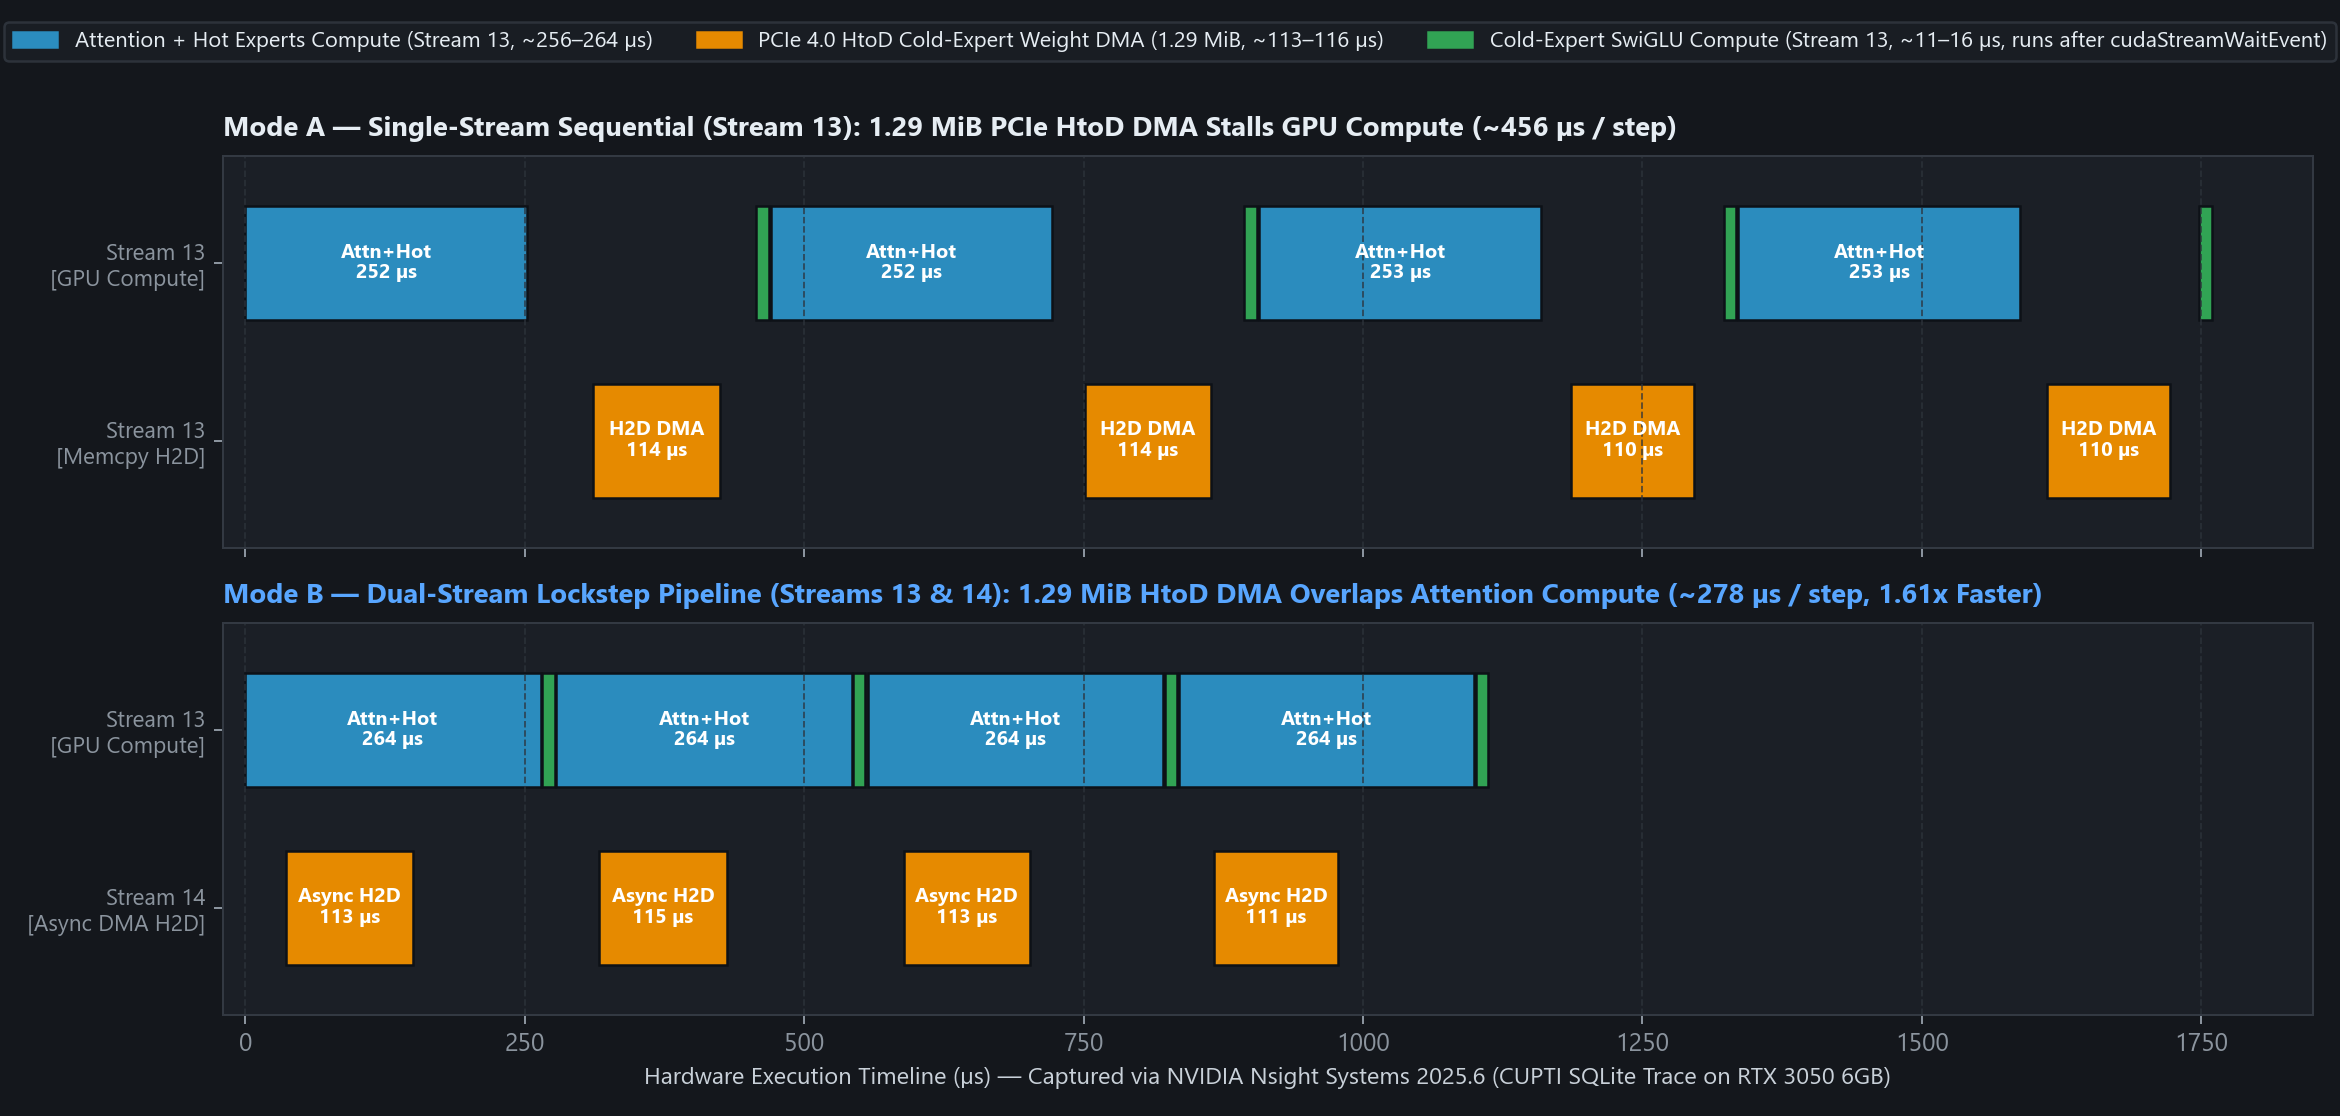
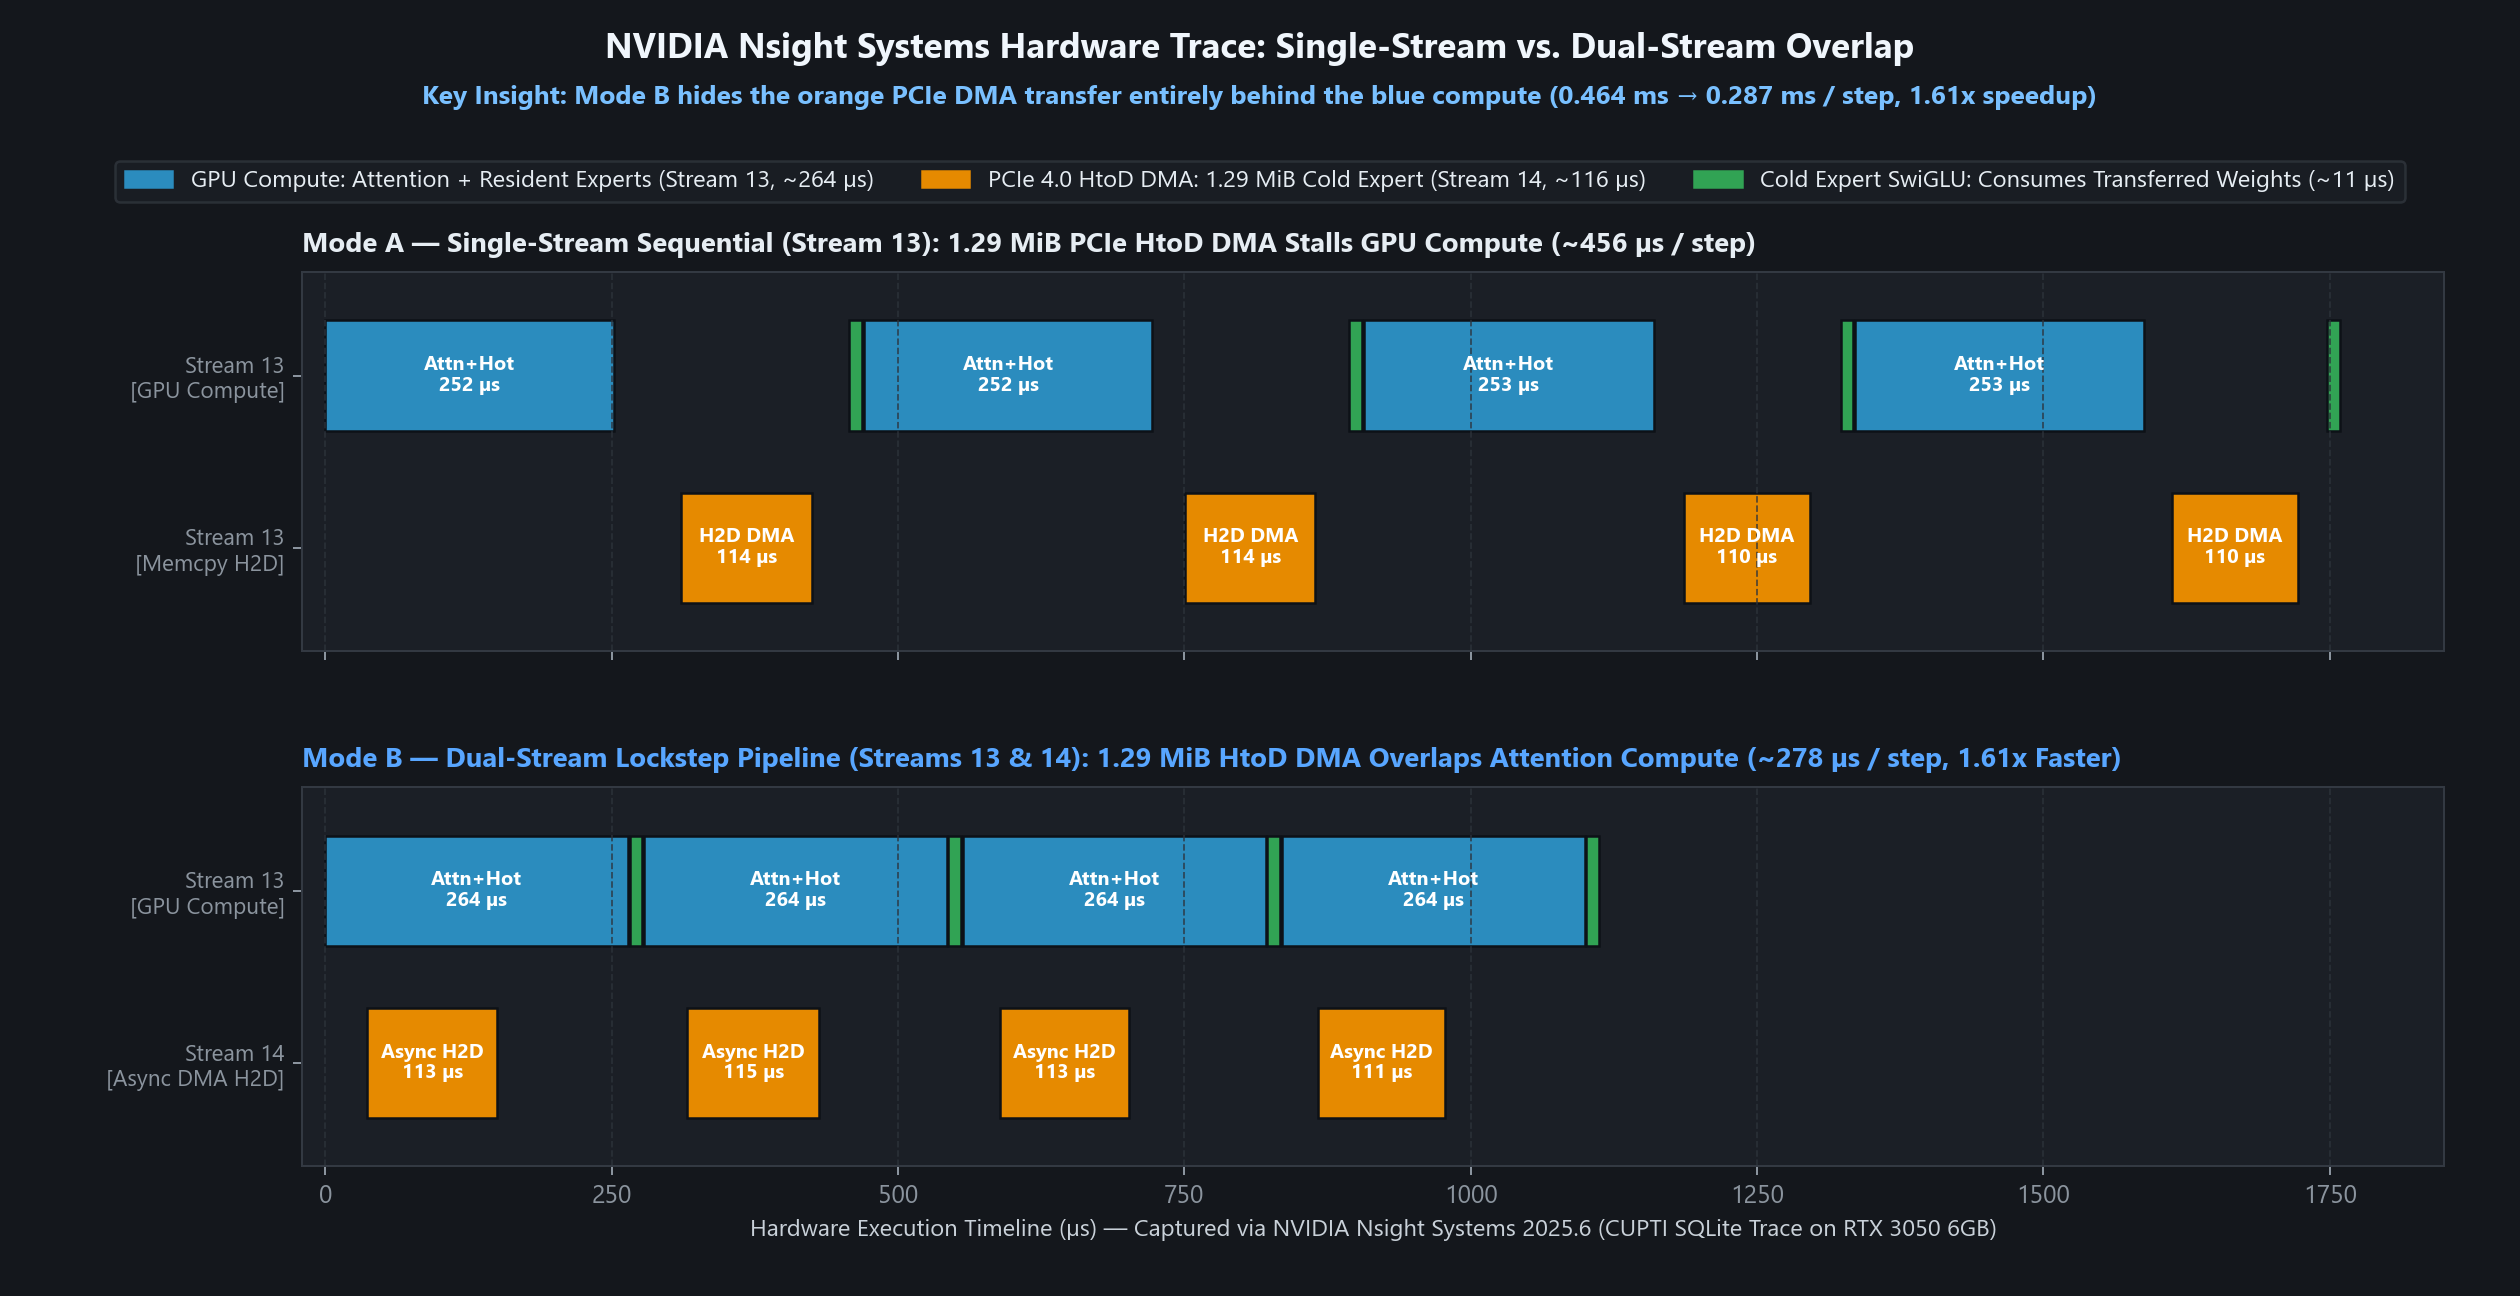
docs: add Related Work, clean Requirements, and refine visual charts

diff --git a/src/plot_nsys_timeline.py b/src/plot_nsys_timeline.py
@@ -96,7 +96,7 @@ def render_timeline(data):
     plt.rcParams["font.sans-serif"] = "Segoe UI"
     plt.rcParams["axes.edgecolor"] = "#333942"
 
-    fig, (ax1, ax2) = plt.subplots(2, 1, figsize=(13, 6.2), dpi=180, sharex=True)
+    fig, (ax1, ax2) = plt.subplots(2, 1, figsize=(14.0, 7.2), dpi=180, sharex=True)
     fig.patch.set_facecolor("#14171c")
 
     colors = {
@@ -104,6 +104,31 @@ def render_timeline(data):
         "dma":  "#e68a00",  # PCIe HtoD DMA Copy (1.29 MiB Cold Expert)
         "ffn":  "#31a354",  # Cold Expert SwiGLU Kernel
     }
+
+    # Title, Callout, and Legend at the top (well-spaced and readable)
+    fig.text(
+        0.5, 0.962,
+        "NVIDIA Nsight Systems Hardware Trace: Single-Stream vs. Dual-Stream Overlap",
+        ha="center", va="center", color="#f0f6fc", fontsize=14, fontweight="bold"
+    )
+    fig.text(
+        0.5, 0.925,
+        "Key Insight: Mode B hides the orange PCIe DMA transfer entirely behind the blue compute (0.464 ms → 0.287 ms / step, 1.61x speedup)",
+        ha="center", va="center", color="#79c0ff", fontsize=10.5, fontweight="bold"
+    )
+
+    legend_patches = [
+        mpatches.Patch(color=colors["attn"], label="GPU Compute: Attention + Resident Experts (Stream 13, ~264 µs)"),
+        mpatches.Patch(color=colors["dma"],  label="PCIe 4.0 HtoD DMA: 1.29 MiB Cold Expert (Stream 14, ~116 µs)"),
+        mpatches.Patch(color=colors["ffn"],  label="Cold Expert SwiGLU: Consumes Transferred Weights (~11 µs)"),
+    ]
+    fig.legend(
+        handles=legend_patches, loc="upper center", ncol=3,
+        frameon=True, facecolor="#1b1f26", edgecolor="#30363d",
+        labelcolor="#e6edf3", fontsize=9.5, bbox_to_anchor=(0.5, 0.885)
+    )
+
+    fig.subplots_adjust(top=0.79, bottom=0.10, left=0.12, right=0.97, hspace=0.36)
 
     # --- Panel 1: Mode A (Sequential on Stream 13) ---
     ax1.set_facecolor("#1b1f26")
@@ -161,18 +186,6 @@ def render_timeline(data):
     ax2.grid(axis="x", color="#2d333b", linestyle="--", linewidth=0.7, alpha=0.8)
     ax2.tick_params(colors="#8b949e")
 
-    legend_patches = [
-        mpatches.Patch(color=colors["attn"], label="Attention + Hot Experts Compute (Stream 13, ~256–264 µs)"),
-        mpatches.Patch(color=colors["dma"],  label="PCIe 4.0 HtoD Cold-Expert Weight DMA (1.29 MiB, ~113–116 µs)"),
-        mpatches.Patch(color=colors["ffn"],  label="Cold-Expert SwiGLU Compute (Stream 13, ~11–16 µs, runs after cudaStreamWaitEvent)"),
-    ]
-    fig.legend(
-        handles=legend_patches, loc="upper center", ncol=3,
-        frameon=True, facecolor="#1b1f26", edgecolor="#333942",
-        labelcolor="#e6edf3", fontsize=8.8, bbox_to_anchor=(0.5, 0.99)
-    )
-
-    plt.tight_layout(rect=[0, 0, 1, 0.92])
     plt.savefig(OUT_IMG_PATH, dpi=180, facecolor=fig.get_facecolor())
     print(f"Saved Nsight timeline chart to {OUT_IMG_PATH}")
 

diff --git a/src/plot_benchmarks.py b/src/plot_benchmarks.py
@@ -165,11 +165,7 @@ def main():
         gain = (h / std_vals[idx] - 1.0) * 100.0
         ax2.text(
             bar.get_x() + bar.get_width() / 2.0, h + 0.4,
-            f"{h:.1f}\n(+{gain:.0f}%)", ha="center", va="bottom", color="#79c0ff", fontsize=8.3, fontweight="bold"
-        )
-        ax2.text(
-            bar.get_x() + bar.get_width() / 2.0, h / 2.0,
-            f"{hit_rates[idx]:.1f}%\nhit", ha="center", va="center", color="#ffffff", fontsize=7.8, fontweight="bold"
+            f"{h:.1f}\n(+{gain:.0f}%)", ha="center", va="bottom", color="#79c0ff", fontsize=8.5, fontweight="bold"
         )
 
     ax2.set_xticks(x)

diff --git a/README.md b/README.md
@@ -23,7 +23,16 @@ Decode speed (median tok/s), 128K context reserved, ~900-token prompt, 200 gener
 
 **What beats what, and why the baselines matter:** stock `-fit on` leaves about 1 GB of VRAM unused, so it is a weak baseline. Tuning it by hand already gives +39%. The cache is only interesting because it beats the tuned baseline too (+14–17% with MTP on, +30% with MTP off).
 
-Long-generation check (3 prompts × 1000 tokens, default sampling): 15.8 → 23.6 tok/s on average, 267 s → 206 s total. Per-prompt gains ranged from +21% to +67% because sampling was random. Raw data is in [`benchmarks/`](benchmarks/).
+**Long generation (3 prompts × 1000 tokens, default sampling):**
+
+| Workload | Stock `llama.cpp` | BeyondVRAM (3300 MiB) | Decode Speedup | SLRU Hit Rate |
+|---|---:|---:|---:|---:|
+| Q1: Distributed AI | 14.1 tok/s | 23.6 tok/s | +67.4% | 87.8% |
+| Q2: AgentOS Kernel | 14.8 tok/s | 24.8 tok/s | +66.8% | 90.2% |
+| Q3: Compiler & PTX | 18.5 tok/s | 22.4 tok/s | +21.5% | 89.0% |
+| **Suite Mean** | **15.8 tok/s** | **23.6 tok/s** | **+49.3%** | **89.0%** |
+
+Total wall-clock time dropped from 267 s to 206 s (-61 s). Q3 showed lower relative gains because default sampling led to different speculative drafting trajectories. Raw telemetry is in [`benchmarks/`](benchmarks/).
 
 ---
 
@@ -68,8 +77,6 @@ These are small standalone CUDA/C++ tests of the hardware behaviour behind the c
 
 ![Nsight timeline](docs/assets/nsys_timeline.png)
 
-*Nsight Systems timeline: the compute kernel on one stream (top) runs while the 1.29 MiB host-to-device copy runs on a second stream (bottom). The copy is hidden behind compute, and a final small kernel uses the copied weights.*
-
 **2. Cold expert: CPU vs GPU** ([`src/zero_transfer_ffn.cpp`](src/zero_transfer_ffn.cpp)). One full 3-matrix expert at its real size, including the cost of moving activations and syncing:
 
 | Path | Time per expert |
@@ -82,7 +89,26 @@ A cache hit is fastest by far. For a miss, running on the CPU is a little faster
 
 ---
 
+## Related work
+
+MoE offloading and expert caching have been explored by [Mixtral-Offloading](https://arxiv.org/abs/2312.17238) (LRU caching with prefetching), [Fiddler](https://arxiv.org/abs/2402.07033) (computing cold experts on the CPU instead of moving weights), [MoE-Infinity](https://arxiv.org/abs/2401.14361), and [KTransformers](https://github.com/kvcache-ai/ktransformers). BeyondVRAM evaluates how these principles—specifically Segmented-LRU caching and CPU/GPU split execution—behave in upstream `llama.cpp` under consumer mobile constraints (6 GB VRAM, PCIe 4.0 x4, single-channel RAM).
+
+---
+
+## Requirements
+
+- **Operating System:** Windows 10/11 (PowerShell).
+- **Inference Engine:** Upstream [`llama.cpp`](https://github.com/ggml-org/llama.cpp) with `--moe-cache-mib` support (`b1-ac8e169` or newer).
+- **Python:** Python 3.10+ with `matplotlib` and `numpy`.
+- **C++/CUDA Toolchain (optional):** MSVC 19.40+ (Visual Studio 2022) and CUDA Toolkit 12.0+ with `nvcc` (only needed for microbenchmarks).
+- **Model File:** A GGUF MoE model (benchmarked on `Groot-19B-A3B-261023.i1-Q3_K_S.gguf`, 7.82 GiB).
+
+---
+
 ## Quick start
+
+> [!NOTE]
+> Currently Windows-only (MSVC + CUDA Toolkit required for C++/CUDA tests).
 
 ```powershell
 git clone https://github.com/gauravpy3361/BeyondVRAM.git
@@ -102,7 +128,6 @@ Needs a `llama.cpp` build that has `--moe-cache-mib`. `--spec-type none` turns M
 ## Reproduce the benchmarks
 
 ```powershell
-pip install matplotlib
 $env:LLAMA_CLI_PATH = "C:\path\to\llama-cli.exe"
 $env:BEYONDVRAM_MODEL = "C:\path\to\model.gguf"
 
